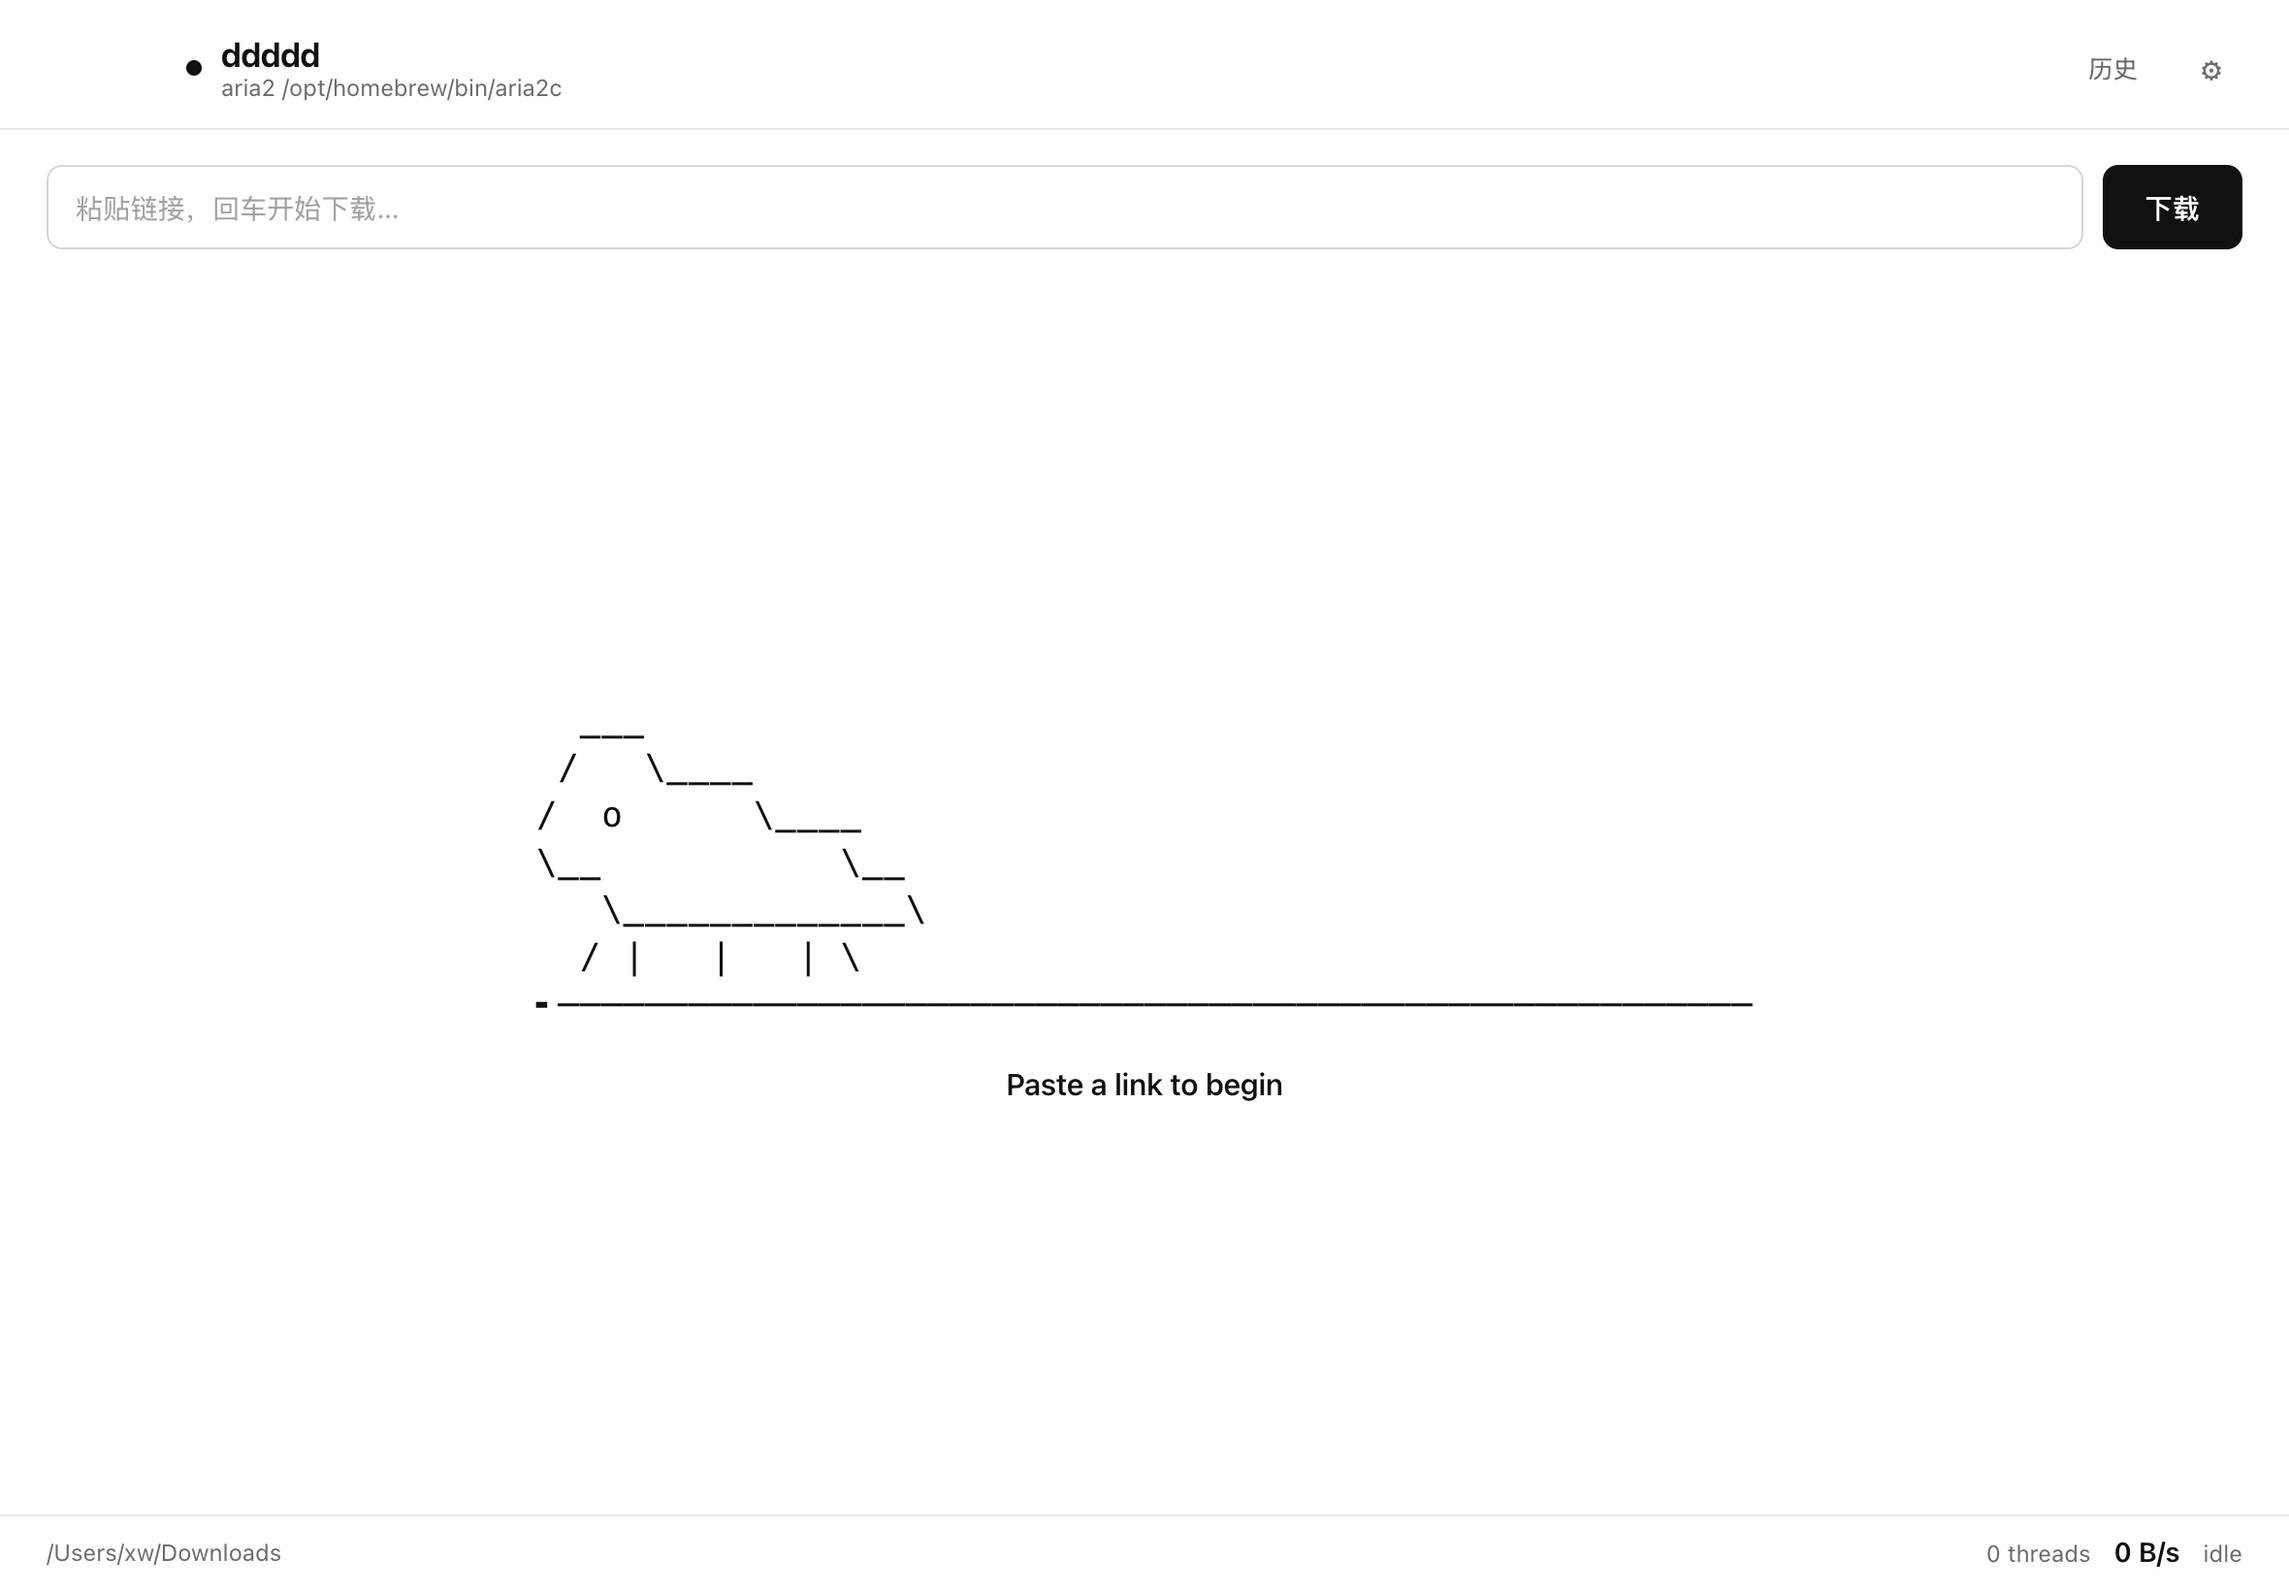
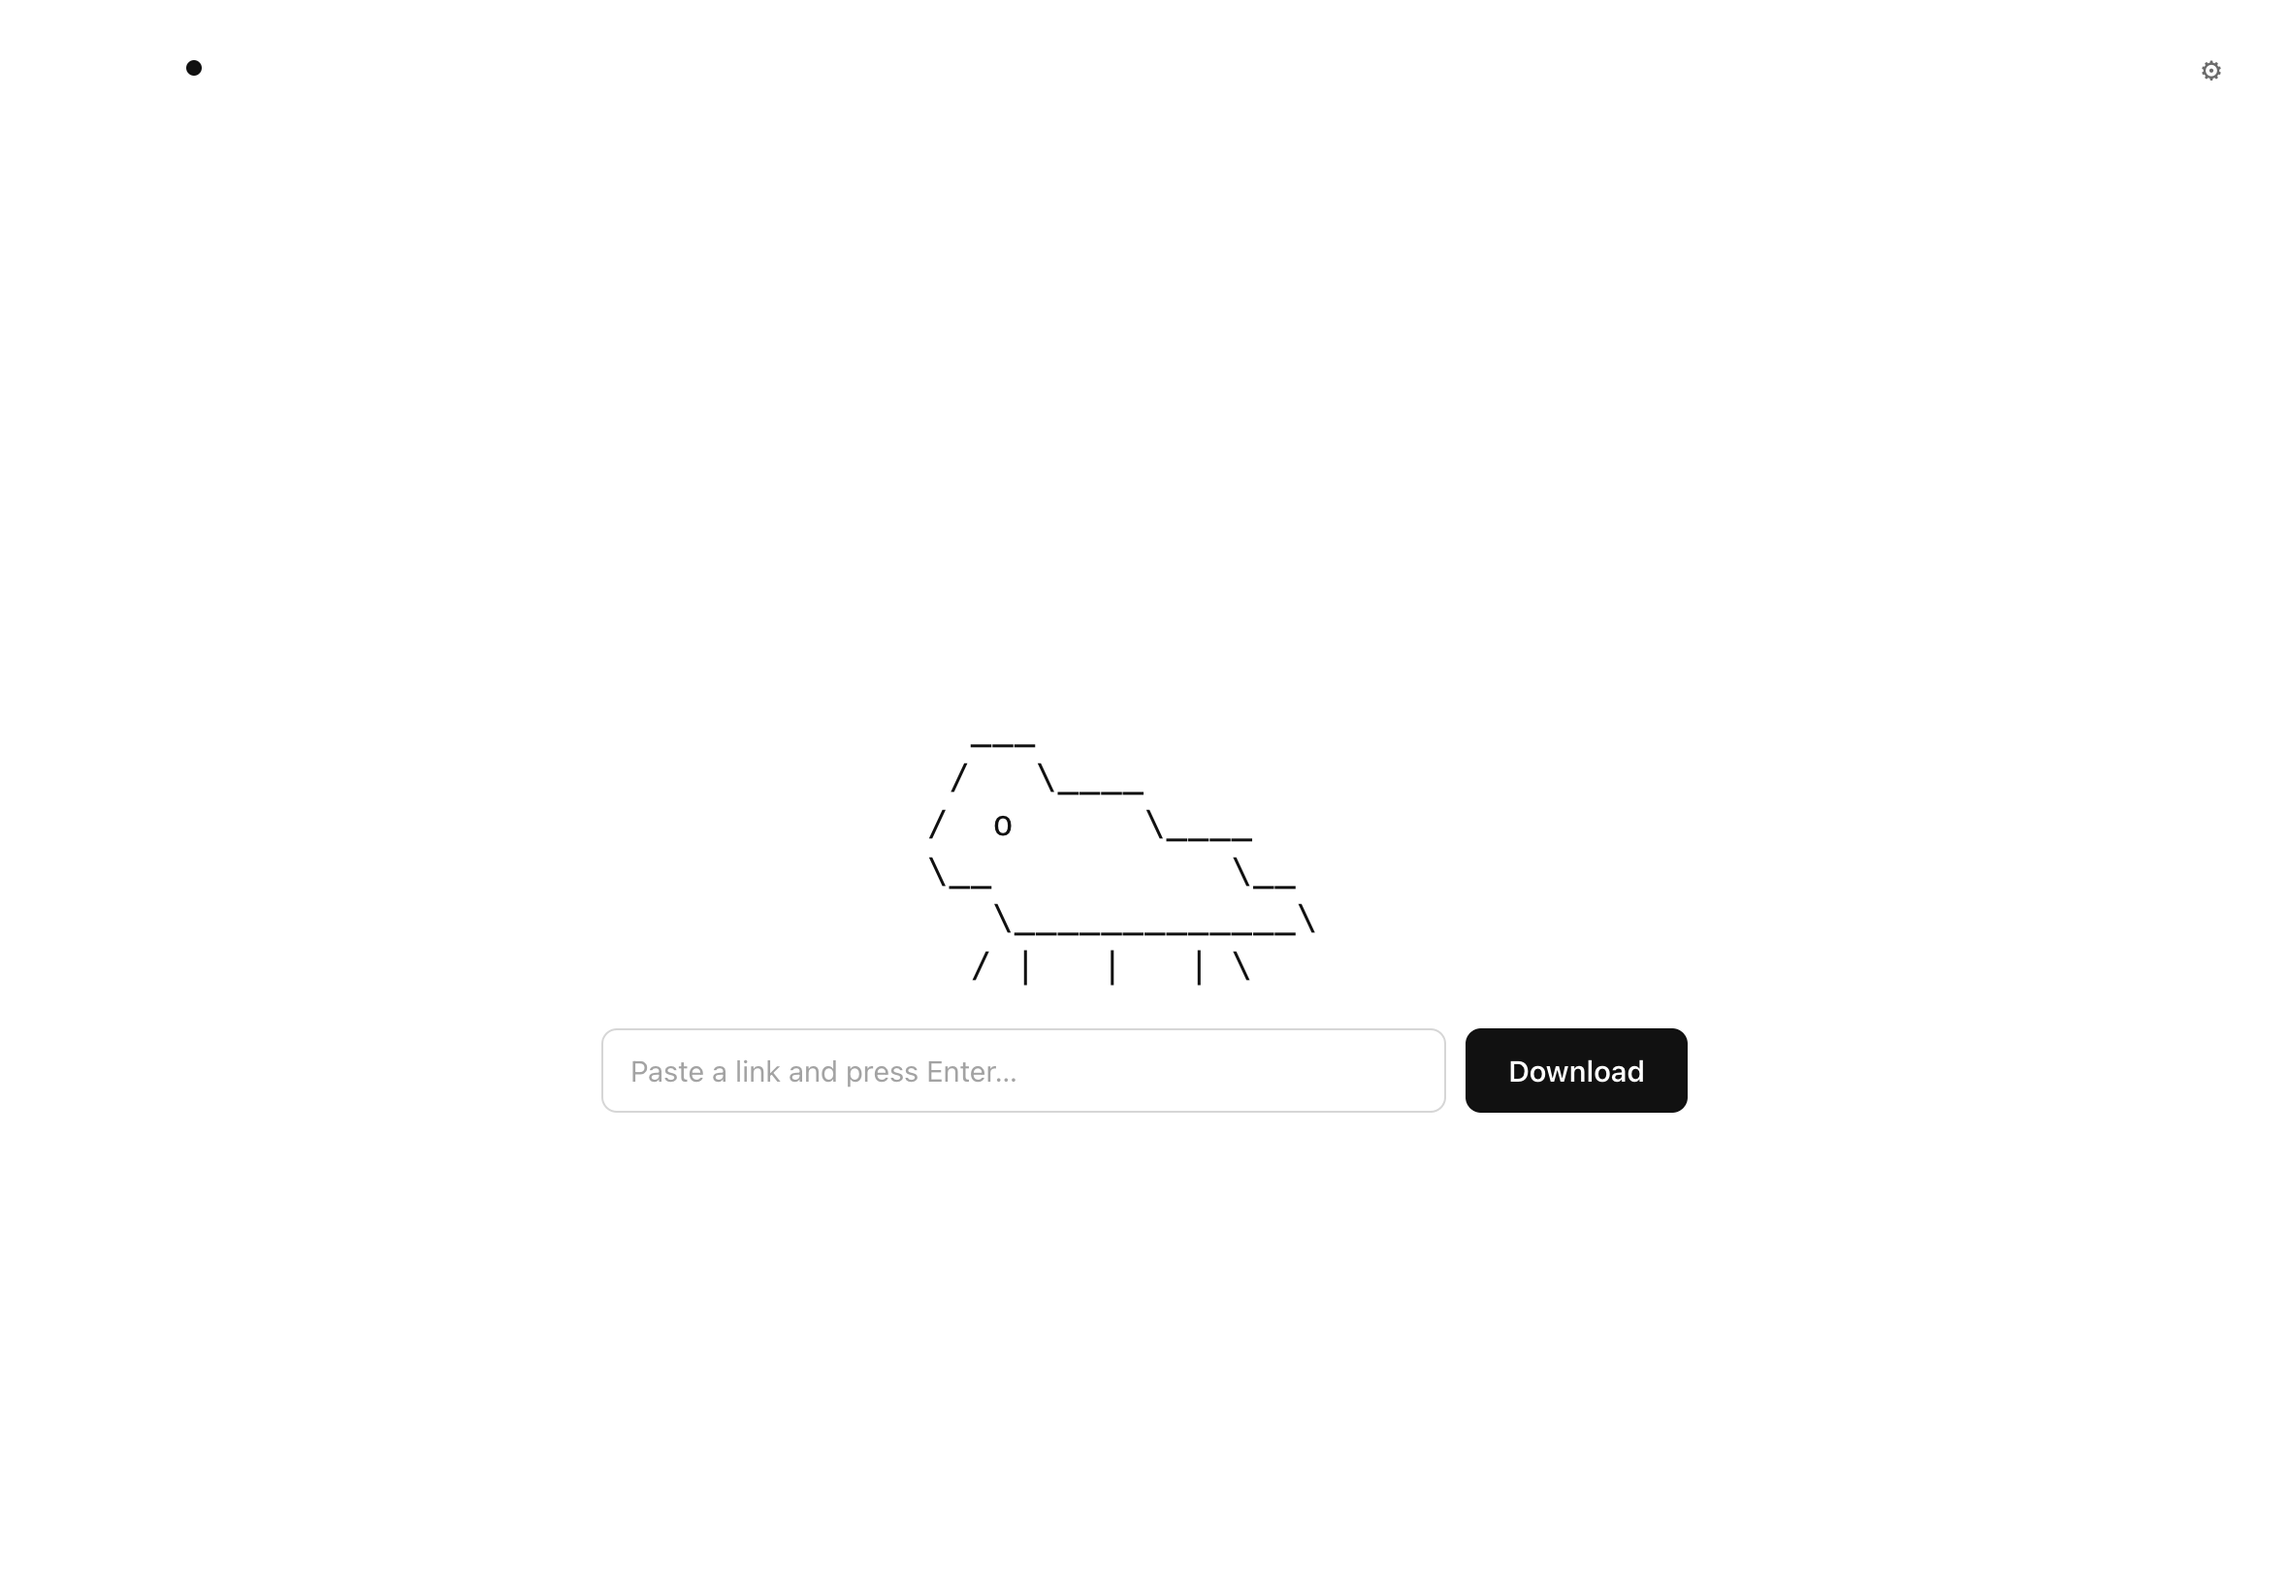
Make the idle view a Google-like page
The beetle sits centred above the URL field on a blank page; the
branch and transfer details only appear once a download starts.

diff --git a/src/renderer/index.html b/src/renderer/index.html
@@ -23,17 +23,6 @@
         <button id="settings-btn" class="icon-btn" title="Settings" aria-label="Settings">⚙</button>
       </header>
 
-      <section class="add-bar">
-        <input
-          id="url-input"
-          type="text"
-          placeholder="Paste a link and press Enter…"
-          spellcheck="false"
-          autocomplete="off"
-        />
-        <button id="add-btn" class="primary">Download</button>
-      </section>
-
       <div id="update-banner" class="update-banner" hidden>
         <span id="update-text"></span>
         <span class="spacer"></span>
@@ -51,6 +40,18 @@
 
       <main id="main-view" class="stage-wrap">
         <pre id="stage" class="stage" aria-hidden="true"></pre>
+
+      <section class="add-bar hero-bar">
+        <input
+          id="url-input"
+          type="text"
+          placeholder="Paste a link and press Enter…"
+          spellcheck="false"
+          autocomplete="off"
+        />
+        <button id="add-btn" class="primary">Download</button>
+      </section>
+
 
         <div class="current">
           <p id="current-name" class="current-name">Paste a link to begin</p>

diff --git a/src/renderer/beetle.js b/src/renderer/beetle.js
@@ -158,7 +158,11 @@ class BeetleScene {
     const rows = Array.from({ length: AIR_ROWS }, () => ' '.repeat(this.width));
 
     const travel = Math.max(1, this.width - ART_WIDTH);
-    const left = Math.max(0, Math.min(travel, Math.round(this.progress * travel) + flyX));
+    // Idle centres the beetle above the input; once moving, it hugs the fill.
+    const left =
+      this.mode === 'idle'
+        ? Math.round((this.width - ART_WIDTH) / 2)
+        : Math.max(0, Math.min(travel, Math.round(this.progress * travel) + flyX));
     const top = Math.max(0, AIR_ROWS - ART_HEIGHT - flyY);
 
     art.forEach((line, index) => {
@@ -167,7 +171,8 @@ class BeetleScene {
       rows[rowIndex] = ' '.repeat(left) + pad(line);
     });
 
-    rows.push(this.branch());
+    // Idle is a blank Google-like page: just the beetle, no progress branch.
+    if (this.mode !== 'idle') rows.push(this.branch());
 
     const frame = rows.join('\n');
     if (frame !== this.lastFrame) {

diff --git a/src/renderer/styles.css b/src/renderer/styles.css
@@ -703,3 +703,40 @@ button {
   align-self: flex-end;
   padding: 9px 22px;
 }
+
+/* ---------- Google-like idle hero ---------- */
+
+.stage-wrap {
+  position: relative;
+}
+
+.hero-bar {
+  width: min(560px, 88%);
+  padding: 0;
+}
+
+.app[data-mode='idle'] .stage-wrap {
+  justify-content: center;
+  padding-top: 14vh;
+  padding-bottom: 6vh;
+}
+
+.app[data-mode='idle'] .titlebar {
+  border-bottom-color: transparent;
+}
+
+.app[data-mode='idle'] .brand-text,
+.app[data-mode='idle'] .footer,
+.app[data-mode='idle'] #history-btn {
+  visibility: hidden;
+}
+
+.app[data-mode='idle'] .current,
+.app[data-mode='idle'] #others-link {
+  display: none;
+}
+
+.app[data-mode='active'] .stage-wrap {
+  justify-content: center;
+  padding-top: 4vh;
+}

diff --git a/src/renderer/renderer.js b/src/renderer/renderer.js
@@ -210,6 +210,8 @@ function updateStage() {
     othersLink.hidden = true;
   }
 
+  $('.app').dataset.mode = item ? 'active' : 'idle';
+
   if (!item) {
     scene.update({ mode: 'idle', progress: 0 });
     $('#current-name').textContent = 'Paste a link to begin';
